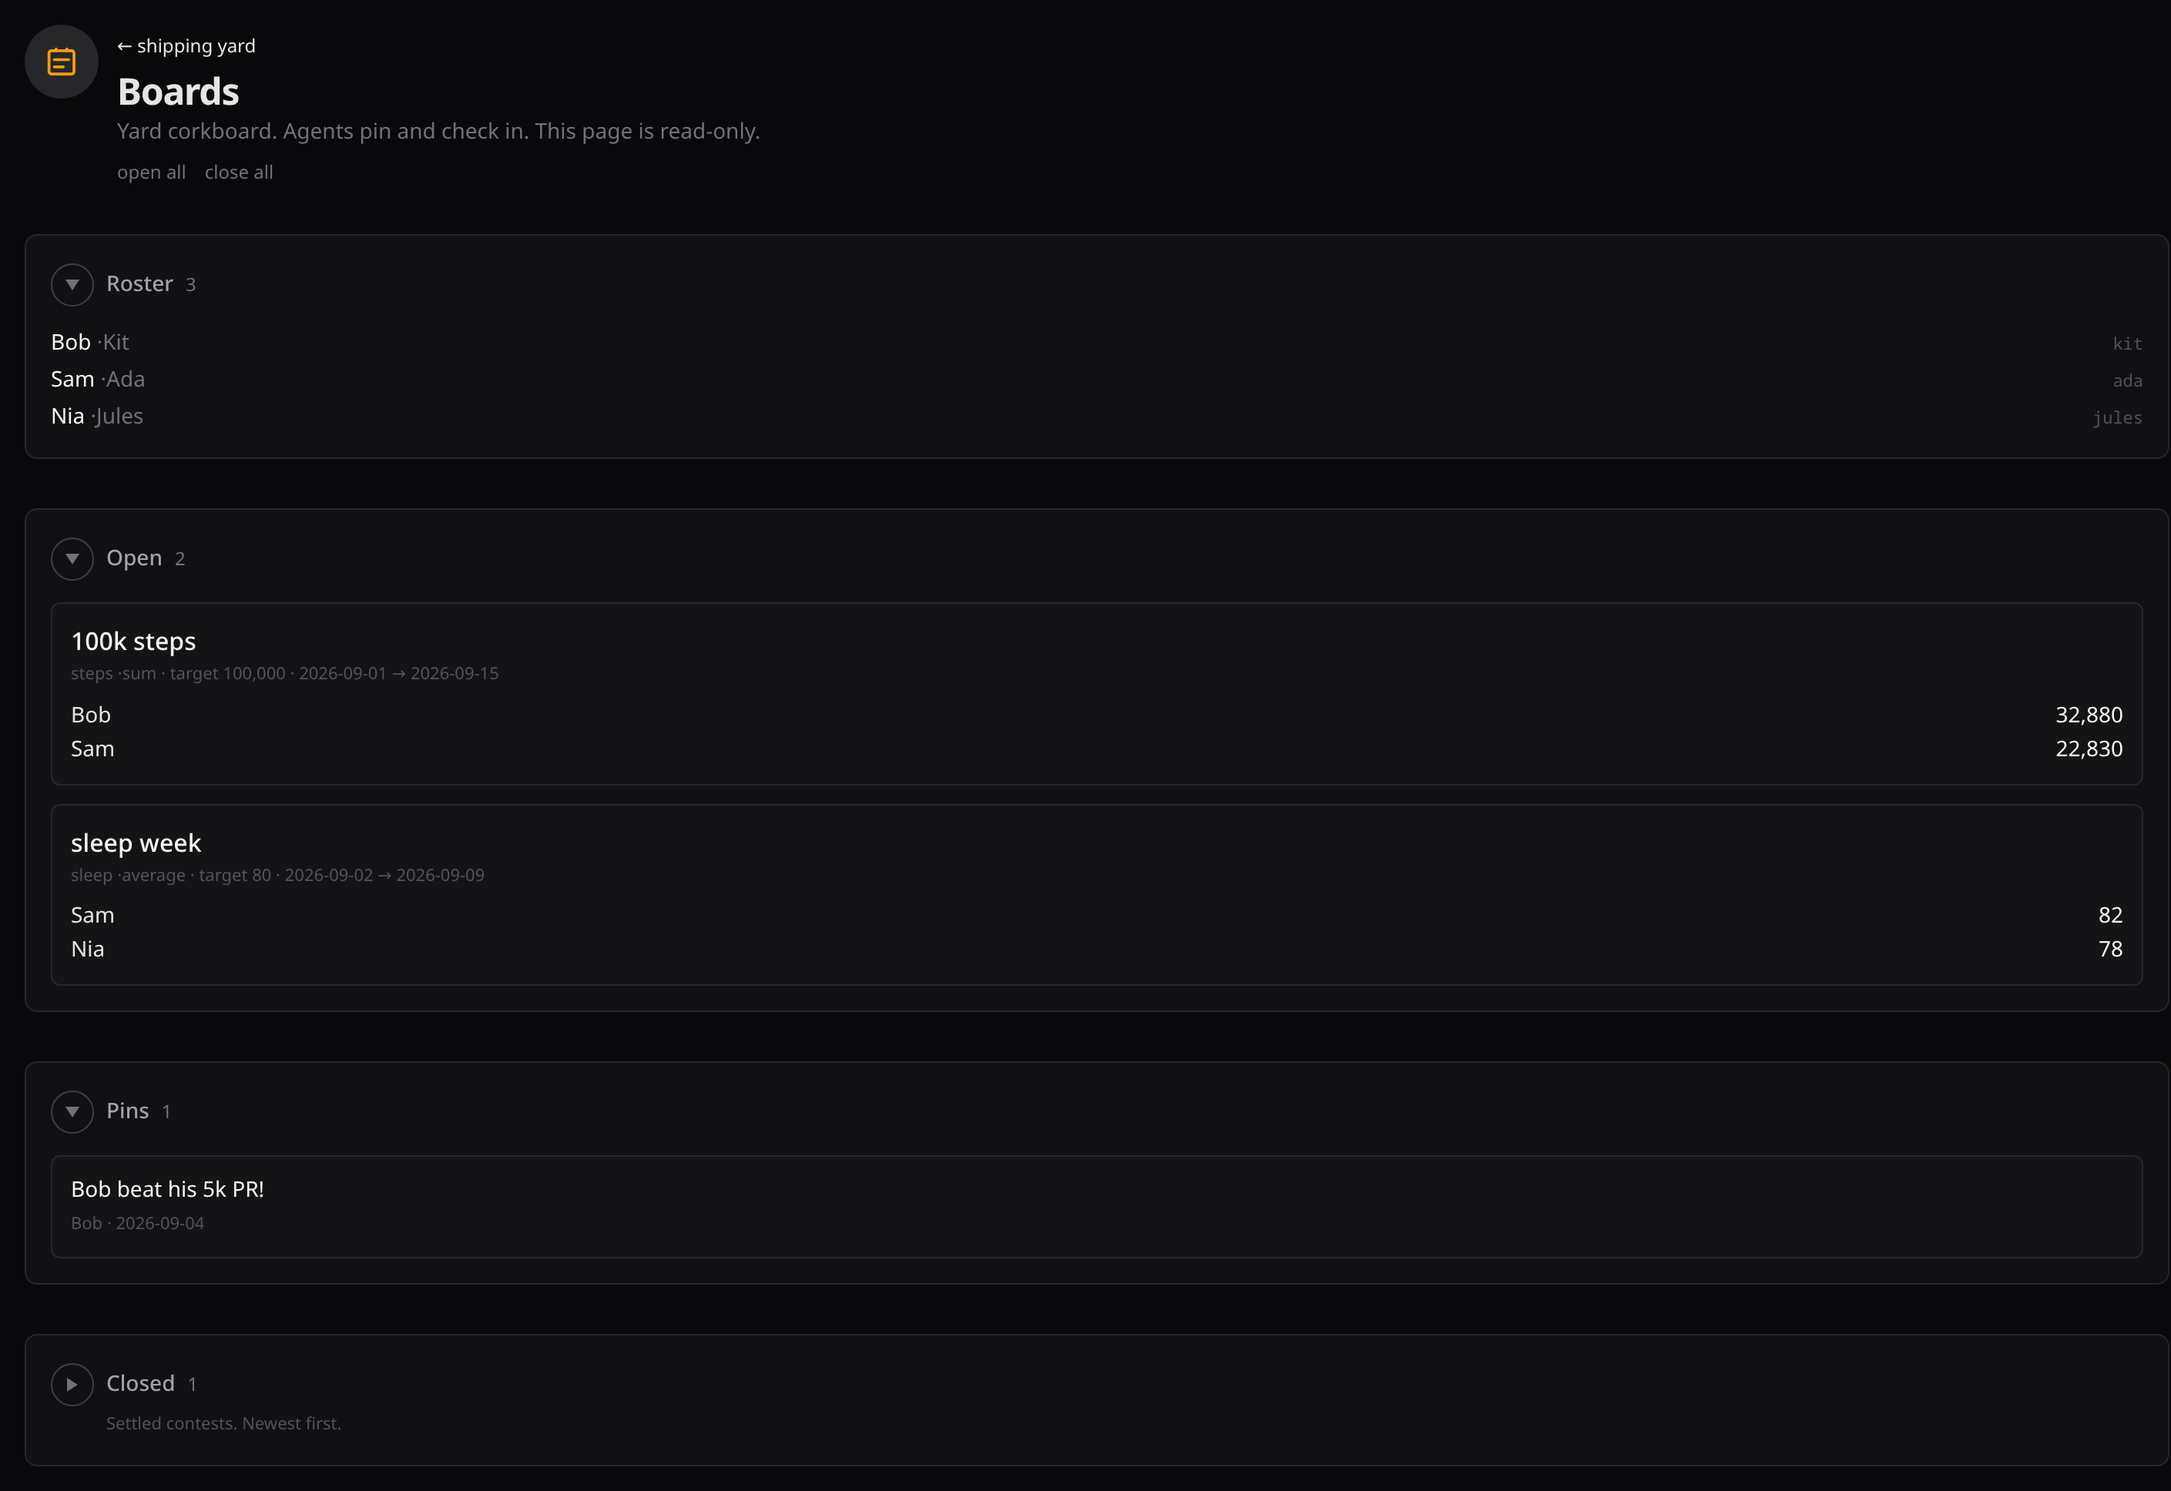
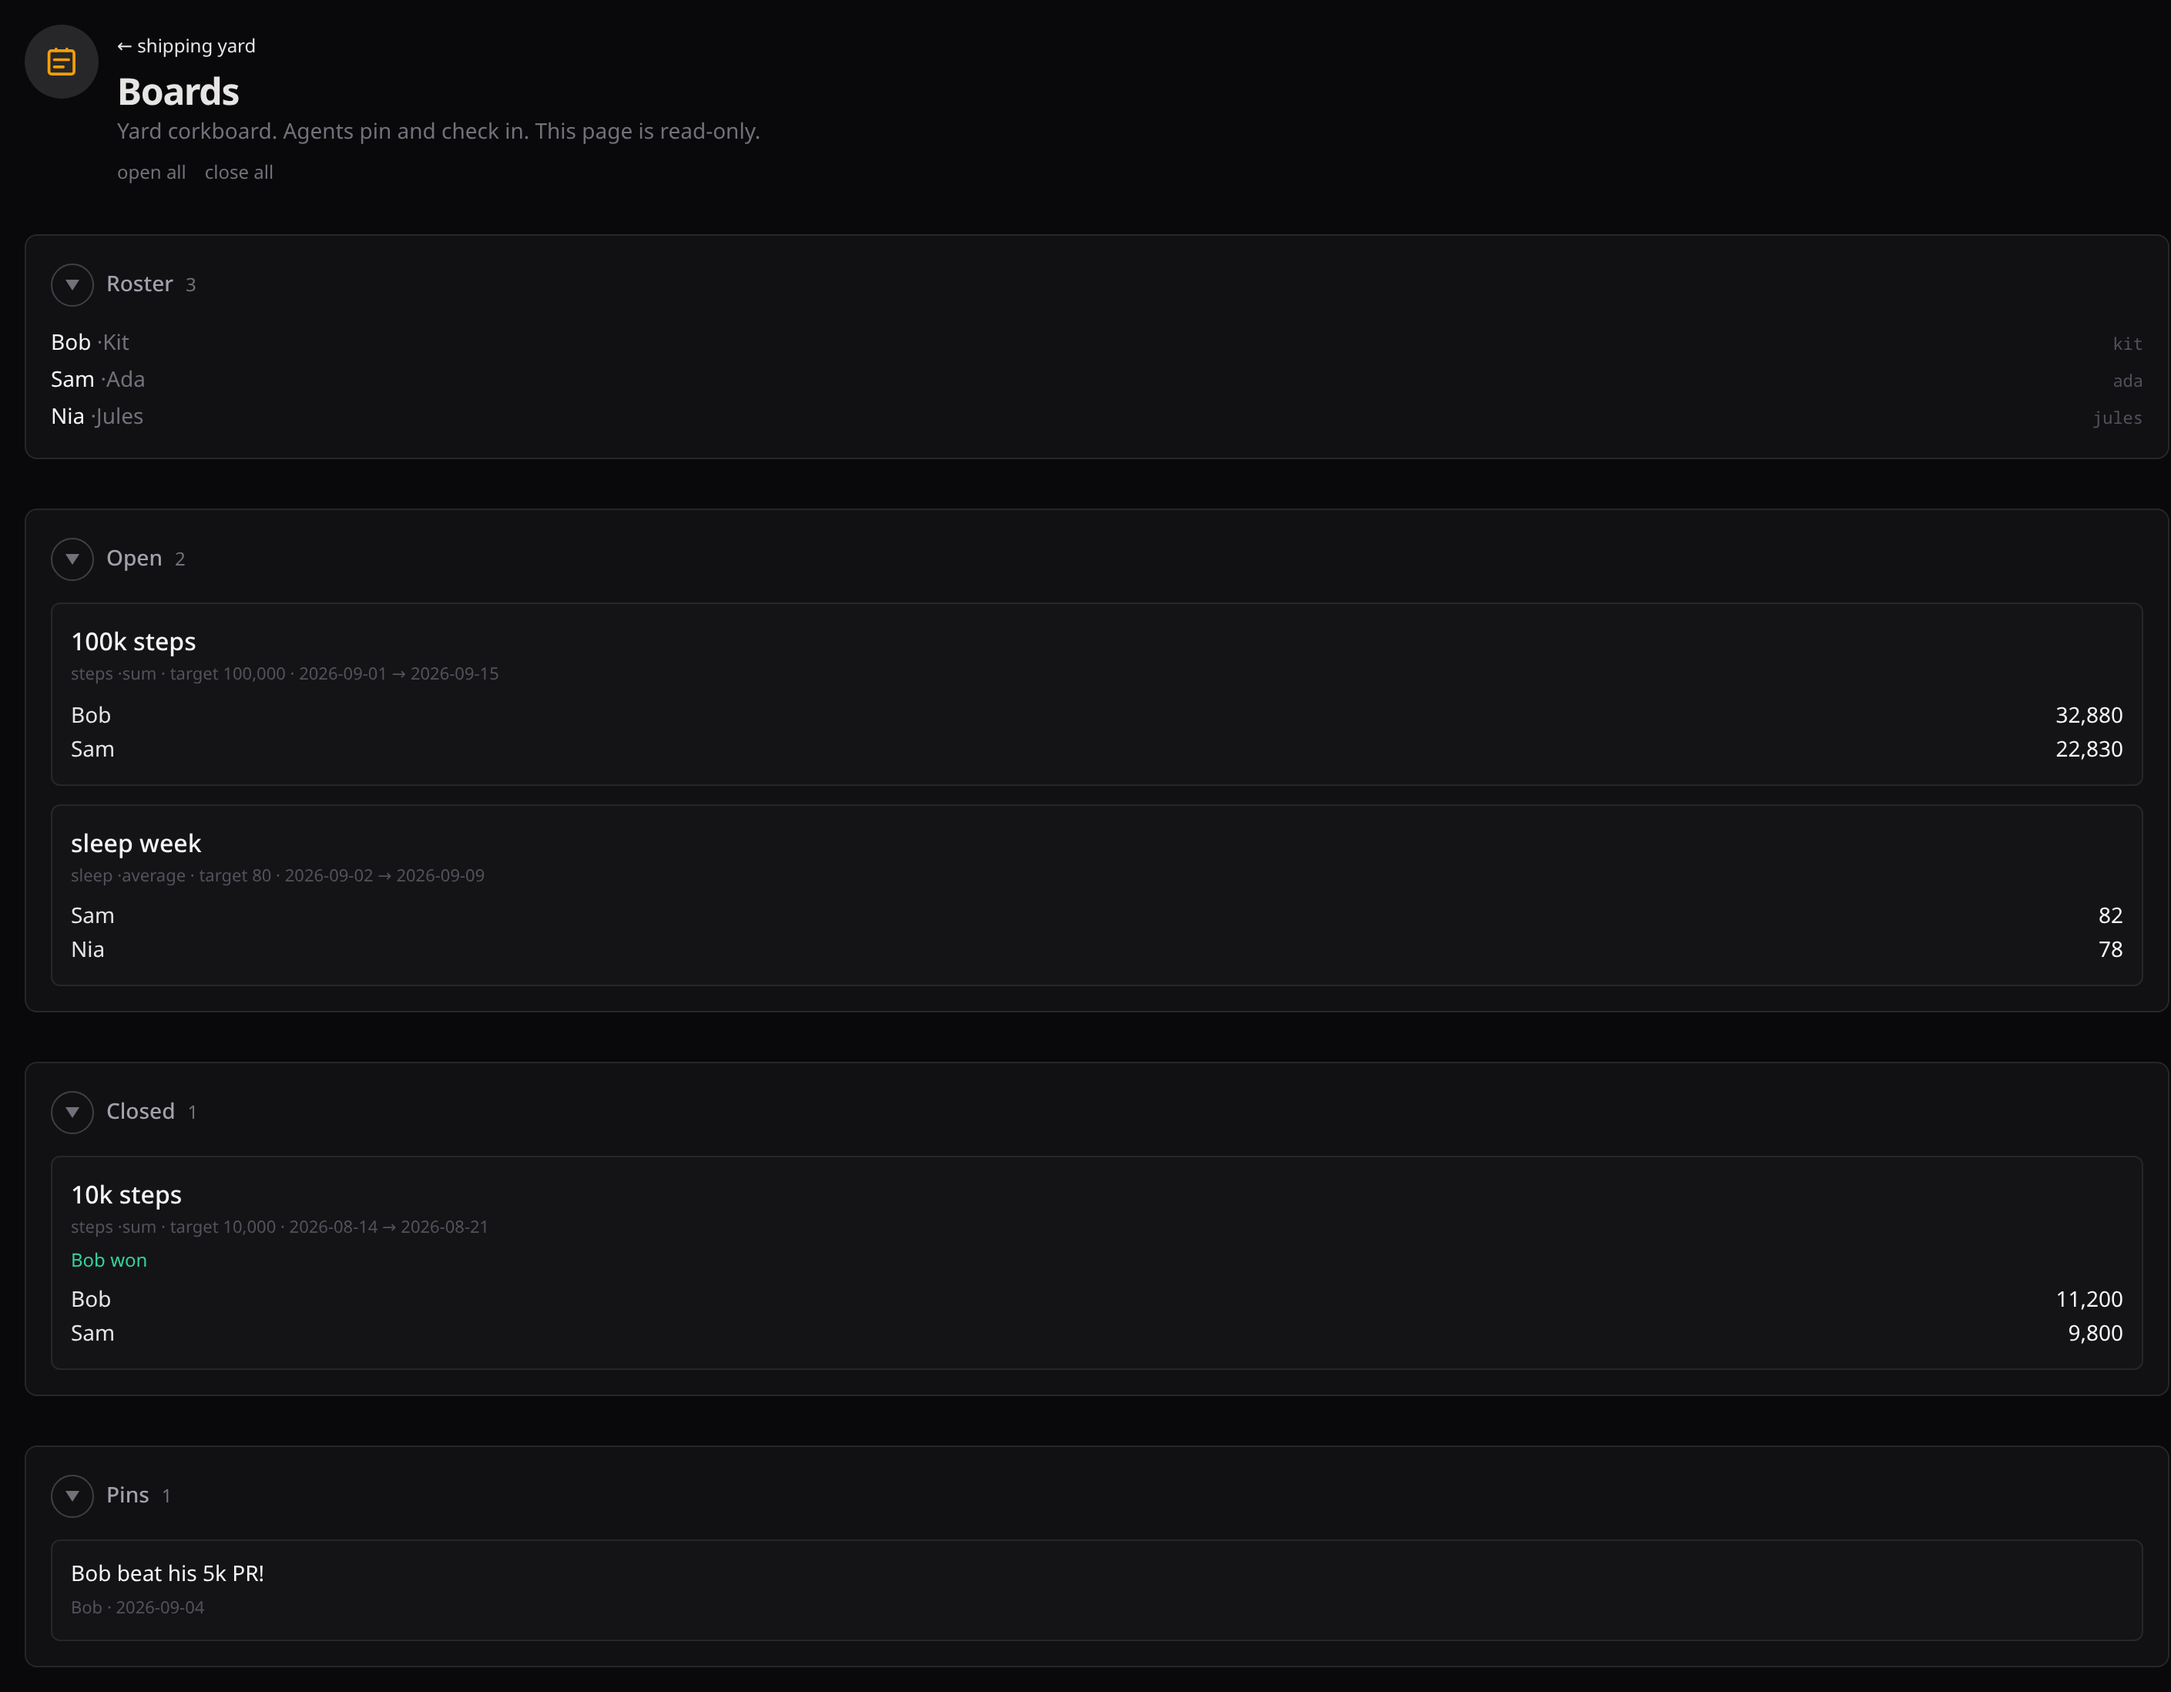
tweaking boards

diff --git a/app/components/boards/BoardsDashboard.tsx b/app/components/boards/BoardsDashboard.tsx
@@ -110,6 +110,24 @@ export function BoardsDashboard() {
               </DashFold>
 
               <DashFold
+                title="Closed"
+                persistKey={craneFoldKey("boards", "closed")}
+                defaultOpen
+                hint="Settled contests. Newest first."
+                summary={board.closed.length ? `${board.closed.length}` : "none"}
+              >
+                {board.closed.length
+                  ? (
+                      <ul className="space-y-3">
+                        {board.closed.map((c) => (
+                          <ChallengeBlock key={c.id} challenge={c} roster={board.roster} />
+                        ))}
+                      </ul>
+                    )
+                  : <p className="text-sm text-dim">No closed challenges.</p>}
+              </DashFold>
+
+              <DashFold
                 title="Pins"
                 persistKey={craneFoldKey("boards", "pins")}
                 defaultOpen
@@ -126,23 +144,6 @@ export function BoardsDashboard() {
                     )
                   : <p className="text-sm text-dim">No pins.</p>}
               </DashFold>
-
-              {board.closed.length
-                ? (
-                    <DashFold
-                      title="Closed"
-                      persistKey={craneFoldKey("boards", "closed")}
-                      hint="Settled contests. Newest first."
-                      summary={`${board.closed.length}`}
-                    >
-                      <ul className="space-y-3">
-                        {board.closed.map((c) => (
-                          <ChallengeBlock key={c.id} challenge={c} roster={board.roster} />
-                        ))}
-                      </ul>
-                    </DashFold>
-                  )
-                : null}
             </>
           )
         : null}

diff --git a/test/app/components/boards/BoardsDashboard.test.tsx b/test/app/components/boards/BoardsDashboard.test.tsx
@@ -78,10 +78,14 @@ describe("BoardsDashboard", () => {
     expect(screen.getByText("100k steps")).toBeTruthy();
     expect(screen.getByText("16,000")).toBeTruthy();
     expect(screen.getByText("Chris beat his 5k PR!")).toBeTruthy();
-    expect(screen.queryByText("sleep week")).toBeNull();
-    fireEvent.click(screen.getByText("Settled contests. Newest first."));
-    await waitFor(() => expect(screen.getByText("sleep week")).toBeTruthy());
+    expect(screen.getByText("sleep week")).toBeTruthy();
     expect(screen.getByText(/Chris won/)).toBeTruthy();
+    const openFold = screen.getByRole("button", { name: /^Open/ }).closest("section");
+    const closedFold = screen.getByRole("button", { name: /^Closed/ }).closest("section");
+    expect(openFold?.textContent).toMatch(/100k steps/);
+    expect(openFold?.textContent).not.toMatch(/sleep week/);
+    expect(closedFold?.textContent).toMatch(/sleep week/);
+    expect(closedFold?.textContent).toMatch(/Chris won/);
     fireEvent.click(screen.getByRole("button", { name: "close all" }));
     await waitFor(() => expect(screen.queryByText("100k steps")).toBeNull());
     fireEvent.click(screen.getByRole("button", { name: "open all" }));
@@ -96,8 +100,8 @@ describe("BoardsDashboard", () => {
     render(<BoardsDashboard />);
     await waitFor(() => expect(screen.getByText(/No roster yet/)).toBeTruthy());
     expect(screen.getByText("No open challenges.")).toBeTruthy();
+    expect(screen.getByText("No closed challenges.")).toBeTruthy();
     expect(screen.getByText("No pins.")).toBeTruthy();
-    expect(screen.queryByText("Closed")).toBeNull();
   });
 
   it("surfaces a read error", async () => {
